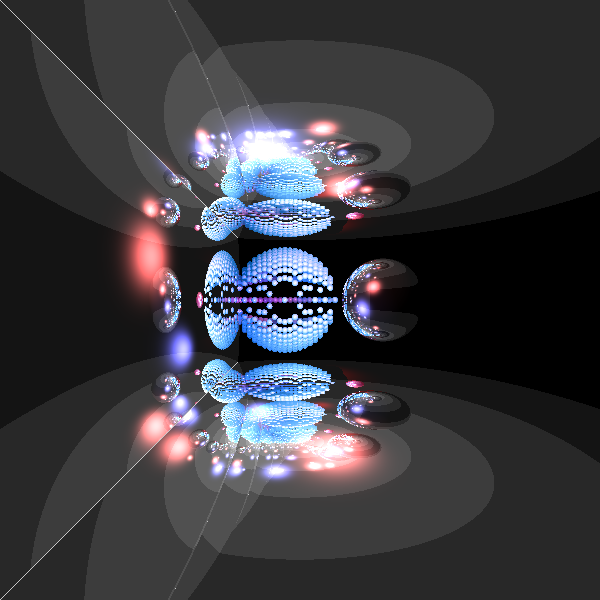
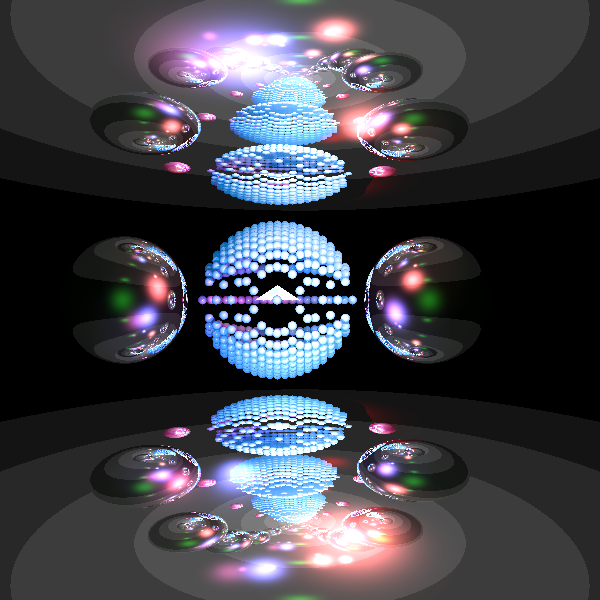
commit1

diff --git a/src/unittests/MiniProject2.java b/src/unittests/MiniProject2.java
@@ -12,6 +12,7 @@ import org.junit.Test;
 
 import elements.AmbientLight;
 import elements.Camera;
+import elements.DirectionalLight;
 import elements.PointLight;
 import elements.SpotLight;
 import geometries.Geometries;
@@ -34,7 +35,7 @@ import scene.Scene;
 public class MiniProject2 {
 
 	private Scene scene = new Scene("Test scene");
-	private Camera camera = new Camera(new Point3D(0, 0, 3000), new Vector(0, 0, -1), new Vector(0, 1, 0)) //
+	private Camera camera = new Camera(new Point3D(0, 0, 2000), new Vector(0, 0, -1), new Vector(0, 1, 0)) //
 			.setViewPlaneSize(200, 200).setDistance(1000);
 	
 	
@@ -82,19 +83,20 @@ public class MiniProject2 {
 		render.writeToImage();
 	}
 	
-	@Test
+	//@Test //running time:    1067.196s = 18 minutes  (with improvement)   
 	public void test2() {
 		
 		scene.setAmbientLight(new AmbientLight(new Color(java.awt.Color.BLACK), 0));
 		
-		//blue ball
-		for (double x = -50; x <= 50; x+=5) { 
-			for (double z = -Math.sqrt(2500 - x*x); z <= Math.sqrt(2500 - x*x); z += 5) {
-				double y = Math.sqrt(2500 - x*x - z*z);	
-				if(Double.isNaN(y)) {
+		//middle blue sphere- a sphere made up of hundreds of small spheres
+		//a loop that create the spheres with x,y,z sequential values  (using pitagoras)
+		for (double x = -50; x <= 50; x+=5) {   //x between (-50 , 50)
+			for (double z = -Math.sqrt(2500 - x*x); z <= Math.sqrt(2500 - x*x); z += 5) {//z between (-Math.sqrt(2500 - x*x), Math.sqrt(2500 - x*x))
+				double y = Math.sqrt(2500 - x*x - z*z);	 //y value
+				if(Double.isNaN(y)) {//check if y value is nan(close to zero) and update them to 0
 					y = 0;
 				}
-				scene.geometries.add(new Sphere(new Point3D(x-15, y, z), 3)
+				scene.geometries.add(new Sphere(new Point3D(x-15, y, z), 3)   //add the small spheres
 						.setEmmission(new Color((int)Math.abs(x+y+z)% 256, (int)Math.abs(x+y+z+80) %256, (int)Math.abs(x+y+z+160)%256))
 						.setMaterial(new Material().setkD(0.3).setkS(1).setnShininess(99)));
 				scene.geometries.add(new Sphere(new Point3D(x-15, -y, z), 3)
@@ -103,37 +105,31 @@ public class MiniProject2 {
 			}
 		}
 		
-		//right ball
-//		for (double x = -50; x <= 50; x+=5) {
-//			for (double z = -Math.sqrt(2500 - x*x); z <= Math.sqrt(2500 - x*x); z += 5) {
-//				double y = Math.sqrt(2500 - x*x - z*z);	
-//				if(Double.isNaN(y)) {
-//					y = 0;
-//				}
-//				scene.geometries.add(new Sphere(new Point3D(x+105, y, z), 3)
-//						.setEmmission(new Color((int)Math.abs(x+y+z)% 256, (int)Math.abs(x+y+z+80) %256, (int)Math.abs(x+y+z+160)%256))
-//						.setMaterial(new Material().setkD(0.3).setkS(1).setnShininess(99)));
-//				scene.geometries.add(new Sphere(new Point3D(x+105, -y, z), 3)
-//						.setEmmission(new Color((int)Math.abs(x+y+z)% 256, (int)Math.abs(x+y+z+80) %256, (int)Math.abs(x+y+z+160)%256))
-//						.setMaterial(new Material().setkD(0.3).setkS(1).setnShininess(99)));
-//			}
-//		}
-		
 
 		
 		scene.geometries.add(
 				//mirrors
-				new Sphere(new Point3D(0, -1000, 0), 940).setEmmission(new Color(20, 20, 20)).setMaterial(new Material().setkR(1).setkS(1).setnShininess(99)),
-				new Sphere(new Point3D(0, 1000, 0), 940).setEmmission(new Color(20, 20, 20)).setMaterial(new Material().setkR(1).setkS(1).setnShininess(99)),
-				new Sphere(new Point3D(-1000, 0, 0), 940).setEmmission(new Color(20, 20, 20)).setMaterial(new Material().setkR(1).setkS(1).setnShininess(99)),
-	            //balls
-				new Sphere( new Point3D(80, 0 ,120) ,40).setEmmission(new Color(0,0,0))
+				new Sphere(new Point3D(0, -1000, 0), 940).setEmmission(new Color(20, 20, 20)).setMaterial(new Material().setkR(1).setkS(1).setnShininess(99)), //lower mirror
+				new Sphere(new Point3D(0, 1000, 0), 940).setEmmission(new Color(20, 20, 20)).setMaterial(new Material().setkR(1).setkS(1).setnShininess(99)), //upper mirror
+			      //spheres
+				//right spheres
+				new Sphere( new Point3D(80, 0 ,120) ,40).setEmmission(new Color(0,0,0)) // outer right spheres
 			    .setMaterial(new Material().setkD(0.05).setkS(1).setnShininess(15).setkT(0).setkR(1)), 
-			    new Sphere(new Point3D(60, 0, 0) , 10).setEmmission(new Color(75,0,25))
-			    .setMaterial(new Material().setkD(0.2).setkS(1).setnShininess(15).setkT(0).setkR(1)) 
+			    new Sphere(new Point3D(60, 0, 0) , 10).setEmmission(new Color(75,0,25))// inner right spheres
+			    .setMaterial(new Material().setkD(0.2).setkS(1).setnShininess(15).setkT(0).setkR(1)) ,
+			    //left spheres
+			    new Sphere( new Point3D(-110, 0 ,120) ,40).setEmmission(new Color(0,0,0)) // outer left spheres
+			    .setMaterial(new Material().setkD(0.05).setkS(1).setnShininess(15).setkT(0).setkR(1)), 
+			    new Sphere(new Point3D(-90, 0, 0) , 10).setEmmission(new Color(75,0,25)) // inner left spheres
+			    .setMaterial(new Material().setkD(0.2).setkS(1).setnShininess(15).setkT(0).setkR(1)),
+			    //middle small triangle
+			    new Triangle(new Point3D(-30, 0, 0),new Point3D(-15, 10, 0),new Point3D(0, 0, 0)).setEmmission(new Color(200, 200, 510)).setMaterial(new Material().setkD(0.1).setkS(1).setnShininess(99).setkT(0.5).setkR(0))//0.1,1,0.5,0.0,99)));
+
+			   
+			    
 			    
 		);
-		
+		//box automation
 		scene.geometries.sortInnerGeometries();
 				
 		scene.lights.add(	
@@ -146,7 +142,12 @@ public class MiniProject2 {
 		scene.lights.add(
 				new SpotLight(new Color(200,00,000), new Point3D(30, 0, -60), 1, 0.00005, 0.00003, new Vector(1, 0, 2))
 				);
+		scene.lights.add(new DirectionalLight(new Color(10, 100, 10), new Vector(new Point3D(0,0,-0.5) )));
 		
+		scene.lights.add(	
+				new PointLight(new Color(132, 45, 97), new Point3D(-80, -50, 200), 1, 0.00001,  0.000005) 
+						.setkL(0.00001).setkQ( 0.000005).setRadius(5));
+		//soft shadow improvement
 		scene.setShadowRays(70);
 		Render render = new Render() 
 				.setImageWriter(new ImageWriter("BoundingBoxAutomated", 600, 600)) 
@@ -163,72 +164,82 @@ public class MiniProject2 {
 	
 	
 	
+	@Test //running time: 8680.965s  =144 minutes=2 hours and 25 minutes   (without improvement)
+	public void test1() {
+	
+	scene.setAmbientLight(new AmbientLight(new Color(java.awt.Color.BLACK), 0));
+	
+	//middle blue sphere- a sphere made up of hundreds of small spheres
+	//a loop that create the spheres with x,y,z sequential values  (using pitagoras)
+	for (double x = -50; x <= 50; x+=5) {   //x between (-50 , 50)
+		for (double z = -Math.sqrt(2500 - x*x); z <= Math.sqrt(2500 - x*x); z += 5) {//z between (-Math.sqrt(2500 - x*x), Math.sqrt(2500 - x*x))
+			double y = Math.sqrt(2500 - x*x - z*z);	 //y value
+			if(Double.isNaN(y)) {//check if y value is nan(close to zero) and update them to 0
+				y = 0;
+			}
+			scene.geometries.add(new Sphere(new Point3D(x-15, y, z), 3)   //add the small spheres
+					.setEmmission(new Color((int)Math.abs(x+y+z)% 256, (int)Math.abs(x+y+z+80) %256, (int)Math.abs(x+y+z+160)%256))
+					.setMaterial(new Material().setkD(0.3).setkS(1).setnShininess(99)));
+			scene.geometries.add(new Sphere(new Point3D(x-15, -y, z), 3)
+					.setEmmission(new Color((int)Math.abs(x+y+z)% 256, (int)Math.abs(x+y+z+80) %256, (int)Math.abs(x+y+z+160)%256))
+					.setMaterial(new Material().setkD(0.3).setkS(1).setnShininess(99)));
+		}
+	}
+	
+
+	
+	scene.geometries.add(
+			//mirrors
+			new Sphere(new Point3D(0, -1000, 0), 940).setEmmission(new Color(20, 20, 20)).setMaterial(new Material().setkR(1).setkS(1).setnShininess(99)), //lower mirror
+			new Sphere(new Point3D(0, 1000, 0), 940).setEmmission(new Color(20, 20, 20)).setMaterial(new Material().setkR(1).setkS(1).setnShininess(99)), //upper mirror
+		      //spheres
+			//right spheres
+			new Sphere( new Point3D(80, 0 ,120) ,40).setEmmission(new Color(0,0,0)) // outer right spheres
+		    .setMaterial(new Material().setkD(0.05).setkS(1).setnShininess(15).setkT(0).setkR(1)), 
+		    new Sphere(new Point3D(60, 0, 0) , 10).setEmmission(new Color(75,0,25))// inner right spheres
+		    .setMaterial(new Material().setkD(0.2).setkS(1).setnShininess(15).setkT(0).setkR(1)) ,
+		    //left spheres
+		    new Sphere( new Point3D(-110, 0 ,120) ,40).setEmmission(new Color(0,0,0)) // outer left spheres
+		    .setMaterial(new Material().setkD(0.05).setkS(1).setnShininess(15).setkT(0).setkR(1)), 
+		    new Sphere(new Point3D(-90, 0, 0) , 10).setEmmission(new Color(75,0,25)) // inner left spheres
+		    .setMaterial(new Material().setkD(0.2).setkS(1).setnShininess(15).setkT(0).setkR(1)),
+		    //middle small triangle
+		    new Triangle(new Point3D(-30, 0, 0),new Point3D(-15, 10, 0),new Point3D(0, 0, 0)).setEmmission(new Color(200, 200, 510)).setMaterial(new Material().setkD(0.1).setkS(1).setnShininess(99).setkT(0.5).setkR(0))//0.1,1,0.5,0.0,99)));
+
+		   
+		    
+		    
+	);
+	//box automation
+	//scene.geometries.sortInnerGeometries();
+			
+	scene.lights.add(	
+			new PointLight(new Color(200, 200, 510), new Point3D(-40, -50, 200), 1, 0.00001,  0.000005) 
+					.setkL(0.00001).setkQ( 0.000005).setRadius(5));
+	scene.lights.add(
+			new PointLight(new Color(510, 200, 200), new Point3D(40, 50, 200), 1, 0.00001,  0.000005) 
+			.setkL(0.00001).setkQ( 0.000005).setRadius(5));
+	
+	scene.lights.add(
+			new SpotLight(new Color(200,00,000), new Point3D(30, 0, -60), 1, 0.00005, 0.00003, new Vector(1, 0, 2))
+			);
+	scene.lights.add(new DirectionalLight(new Color(10, 100, 10), new Vector(new Point3D(0,0,-0.5) )));
+	
+	scene.lights.add(	
+			new PointLight(new Color(132, 45, 97), new Point3D(-80, -50, 200), 1, 0.00001,  0.000005) 
+					.setkL(0.00001).setkQ( 0.000005).setRadius(5));
+	//soft shadow improvement
+	scene.setShadowRays(70);
+	Render render = new Render() 
+			.setImageWriter(new ImageWriter("BoundingBox2", 600, 600)) 
+			.setCamera(camera)
+			.setRayTracer(new RayTracerBasic(scene))
+			.setMultithreading(3);
+	render.renderImage();
+	render.writeToImage();
+}	
 	
 	
 	
-	
-	
-	
-	
-//	@Test
-//	  /**
-//	   * Testing creation of lighted images
-//	   */
-//	  public void bigimageTest() {    
-//	    Renderer renderer = new Renderer();
-//	    renderer.setImageName("The great image");
-//	    renderer.getScene.setCamera(new Camera(new Point3D(-5000,0,0), new Vector(1,0,0), new Vector(0,1,0); //NOTE: in this test, vTo is NOT the usual 0,0,-1. It is 1,0,0!!
-//	    renderer.getScene().setCameraDistance(5300);
-//	    renderer.getScene().addLight(new PointLight(new Color(200,200,200), new Point3D(new Coordinate(-30), new Coordinate(50), new Coordinate(60)), 1, 0.00005, 0.00003));
-//	    renderer.getScene().addLight(new PointLight(new Color(00,00,200), new Point3D(new Coordinate(80), new Coordinate(80), new Coordinate(120)), 1, 0.00005, 0.00003));
-//	    renderer.getScene().addLight(new SpotLight(new Color(200,00,000), new Point3D(new Coordinate(30), new Coordinate(00), new Coordinate(-60)), 1, 0.00005, 0.00003, new Vector(new Point3D(new Coordinate(1), new Coordinate(0), new Coordinate(2)))));
-//	    
-//	    renderer.getScene().addLight(new DirectionalLight(new Color(10, 100, 10), new Vector(new Point3D(new Coordinate(0), new Coordinate(0), new Coordinate(-0.5)))));
-//	    
-//	    Sphere s;
-//	    
-//
-//	    // Remove this loop and all it's contents if you wish the rendering to take less than 30 minutes!!
-//	    for (double x = -50; x<=50; x+=5)
-//	      for (double y = -(50-Math.abs(x)); y<=50-Math.abs(x); y+=5) {
-//	        double z = Math.sqrt(2500 - x*x - y*y);
-//	        s = new Sphere(5, new Point3D(new Coordinate(x + 60), new Coordinate(y), new Coordinate(z)),new Color((int)Math.abs(x+y+z)%25,(int)Math.abs(x+y+z+10)%25,(int)Math.abs(x+y+z+20)%25));
-//	        s.setMaterial(new Material(1,0.1,0,0.6,99));
-//	        renderer.getScene().addGeometry(s);
-//	        if (z != 0 ) {
-//	          s = new Sphere(5, new Point3D(new Coordinate(x + 60), new Coordinate(y), new Coordinate(-z)),new Color((int)Math.abs(x+y+z)%25,(int)Math.abs(x+y+z+10)%25,(int)Math.abs(x+y+z+20)%25));
-//	          s.setMaterial(new Material(1,0.1,0,0.6,99));
-//	          renderer.getScene().addGeometry(s);
-//	        }
-//	        
-//	      }
-//
-//
-//	    
-//	    s = new Sphere(70, new Point3D(new Coordinate(80), new Coordinate(0), new Coordinate(120)),new Color(0,0,0));
-//	    s.setMaterial(new Material(0.05,1,1,0,15));
-//	    renderer.getScene().addGeometry(s);
-//	    
-//	    s = new Sphere(30, new Point3D(new Coordinate(60), new Coordinate(0), new Coordinate(0)),new Color(75,0,25));
-//	    s.setMaterial(new Material(0.2,1,1,0,15));
-//	    renderer.getScene().addGeometry(s);
-//	    
-//	    s = new Sphere(800, new Point3D(new Coordinate(60), new Coordinate(-900), new Coordinate(0)),new Color(0,0,0));
-//	    s.setMaterial(new Material(0.1,1,1,0,15));
-//	    renderer.getScene().addGeometry(s);
-//	    
-//	    s = new Sphere(800, new Point3D(new Coordinate(60), new Coordinate(900), new Coordinate(0)),new Color(0,0,0));
-//	    s.setMaterial(new Material(0.1,1,1,0,15));
-//	    renderer.getScene().addGeometry(s);
-//	    
-//
-//	    renderer.getScene().addGeometry(new Plain(new Point3D(new Coordinate(250), new Coordinate(-200), new Coordinate(-150)),new Point3D(new Coordinate(250), new Coordinate(200), new Coordinate(-150)),new Point3D(new Coordinate(250), new Coordinate(-200), new Coordinate(200)),new Color(15,15,15), new Material(0.7,1,0.3,0,99)));
-//
-//	    renderer.getScene().addGeometry(new Triangle(new Point3D(new Coordinate(-5000), new Coordinate(-200), new Coordinate(-70)),new Point3D(new Coordinate(150), new Coordinate(200), new Coordinate(-70)),new Point3D(new Coordinate(150), new Coordinate(-200), new Coordinate(-70)),new Color(7,7,7), new Material(0.1,1,0.5,0.0,99)));
-//	    renderer.getScene().addGeometry(new Triangle(new Point3D(new Coordinate(-5000), new Coordinate(200), new Coordinate(-70)),new Point3D(new Coordinate(150), new Coordinate(200), new Coordinate(-70)),new Point3D(new Coordinate(-5000), new Coordinate(-200), new Coordinate(-70)),new Color(7,7,7), new Material(0.1,1,0.5,0.0,99)));
-//
-//	    renderer.getScene().setAmbientLight(new AmbientLight(new Color(0,0,0), 0));
-//	    renderer.renderImage();
-//	  }
-	
+
 	}

diff --git a/src/geometries/Geometries.java b/src/geometries/Geometries.java
@@ -74,7 +74,7 @@ public class Geometries implements Intersectable {
 	 */
 	private void setBox(Intersectable[] geometries) {
 		if (geometries.length <= 0) { 
-			return; //no need of a new box because no new geometries
+			return; //no need of a new box because no geometries
 		}
 		if(leftUpperBackcorner == null) { //if there is no box yet, initialize with maximum values
 			this.leftUpperBackcorner = new Point3D(Double.MAX_VALUE, -Double.MAX_VALUE, Double.MAX_VALUE);			
@@ -317,6 +317,12 @@ public class Geometries implements Intersectable {
 				//the indexes of the geometries in the list have changed (minus 1) and now we want to go over the geometry in index i
 			}			
 		}
+		
+	}
+
+	@Override
+	public void setBox() {
+		// TODO Auto-generated method stub
 		
 	}
 }

diff --git a/src/geometries/Sphere.java b/src/geometries/Sphere.java
@@ -39,7 +39,8 @@ public class Sphere extends Geometry
 	/**
 	 * this function initialize the box
 	 */
-	private void setBox() {
+	@Override
+	public void setBox() {
 		this.leftUpperBackcorner = new Point3D(center.getX() - radius, center.getY() + radius, center.getZ() - radius); //(X-r, Y+r, Z-r)
 		this.rightLowerFrontCorner = new Point3D(center.getX() + radius, center.getY() - radius, center.getZ() + radius);//(X+r, Y-r, Z+r)
 	}

diff --git a/src/geometries/Plane.java b/src/geometries/Plane.java
@@ -46,7 +46,8 @@ public class Plane extends Geometry {
 	/**
 	 * this function initialize the box
 	 */
-	private void setBox() {
+	@Override
+	public void setBox() {
 		this.leftUpperBackcorner = new Point3D(-Double.MAX_VALUE, Double.MAX_VALUE, -Double.MAX_VALUE); //initialize with minimum values
 		this.rightLowerFrontCorner = new Point3D(Double.MAX_VALUE, -Double.MAX_VALUE, Double.MAX_VALUE); //initialize with maximum values
 	}

diff --git a/src/geometries/Polygon.java b/src/geometries/Polygon.java
@@ -87,7 +87,8 @@ public class Polygon extends Geometry {
 	/**
 	 * this function initialize the box
 	 */
-	private void setBox() {
+	@Override
+	public void setBox() {
 		//initialize the edges for comparing
 		double mostLeftCoordinate = Double.MAX_VALUE;
 		double mostRightCoordinate = -Double.MAX_VALUE;

diff --git a/src/geometries/Intersectable.java b/src/geometries/Intersectable.java
@@ -84,5 +84,10 @@ Point3D getLeftUpperBackCorner();
  * @return Point3D - right lower front corner of box
  */
 Point3D getRightLowerFrontCorner();
-
+/**
+ * this function initialize the box
+ */
+ void setBox();
+ 
+ 
 }

diff --git a/src/geometries/Tube.java b/src/geometries/Tube.java
@@ -87,6 +87,12 @@ public class Tube extends Geometry
 		return null;
 	}
 
+	@Override
+	public void setBox() {
+		// TODO Auto-generated method stub
+		
+	}
+
     
     
     
